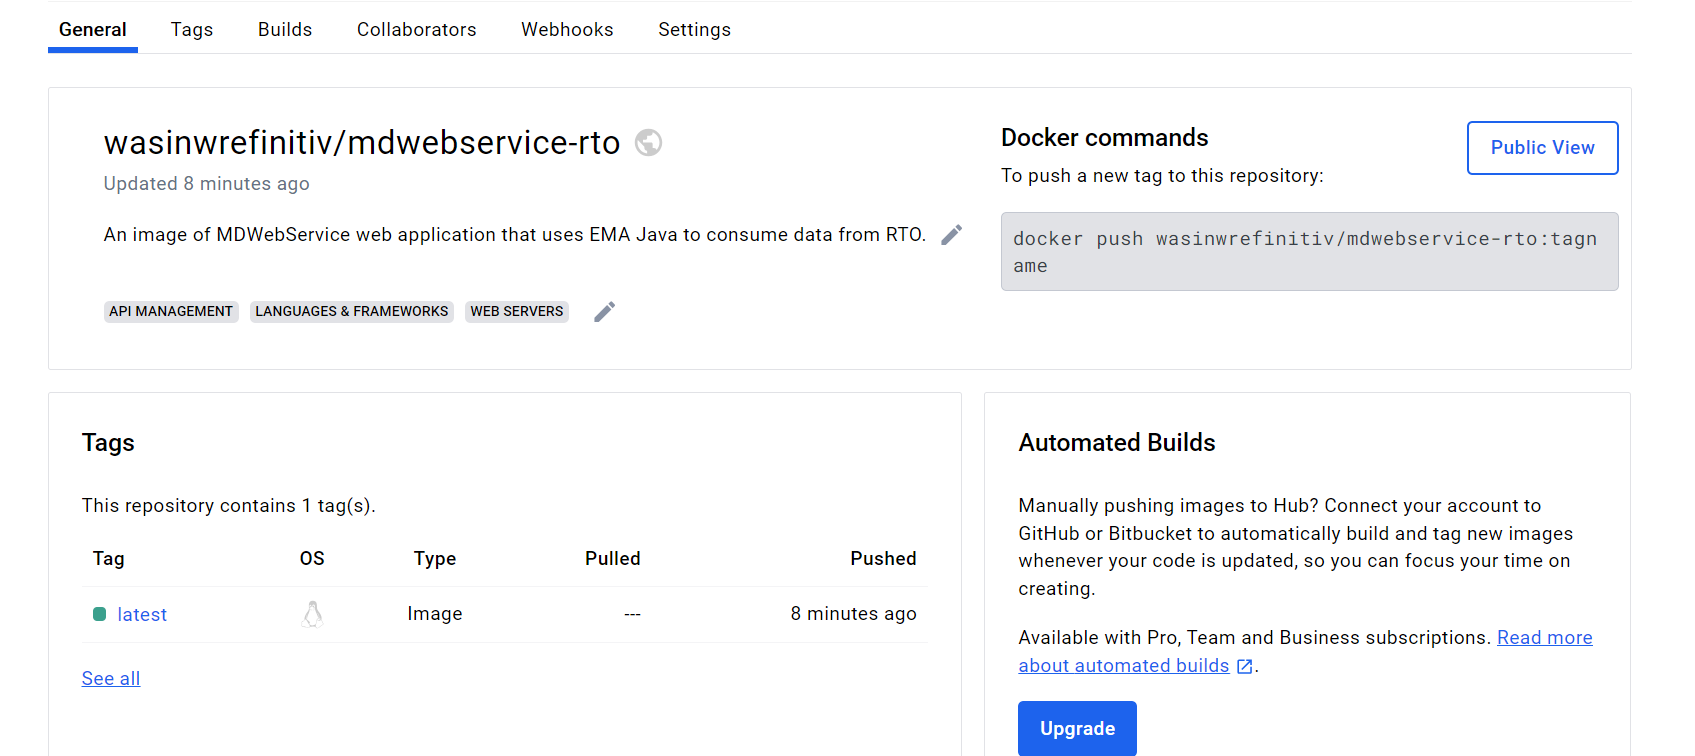
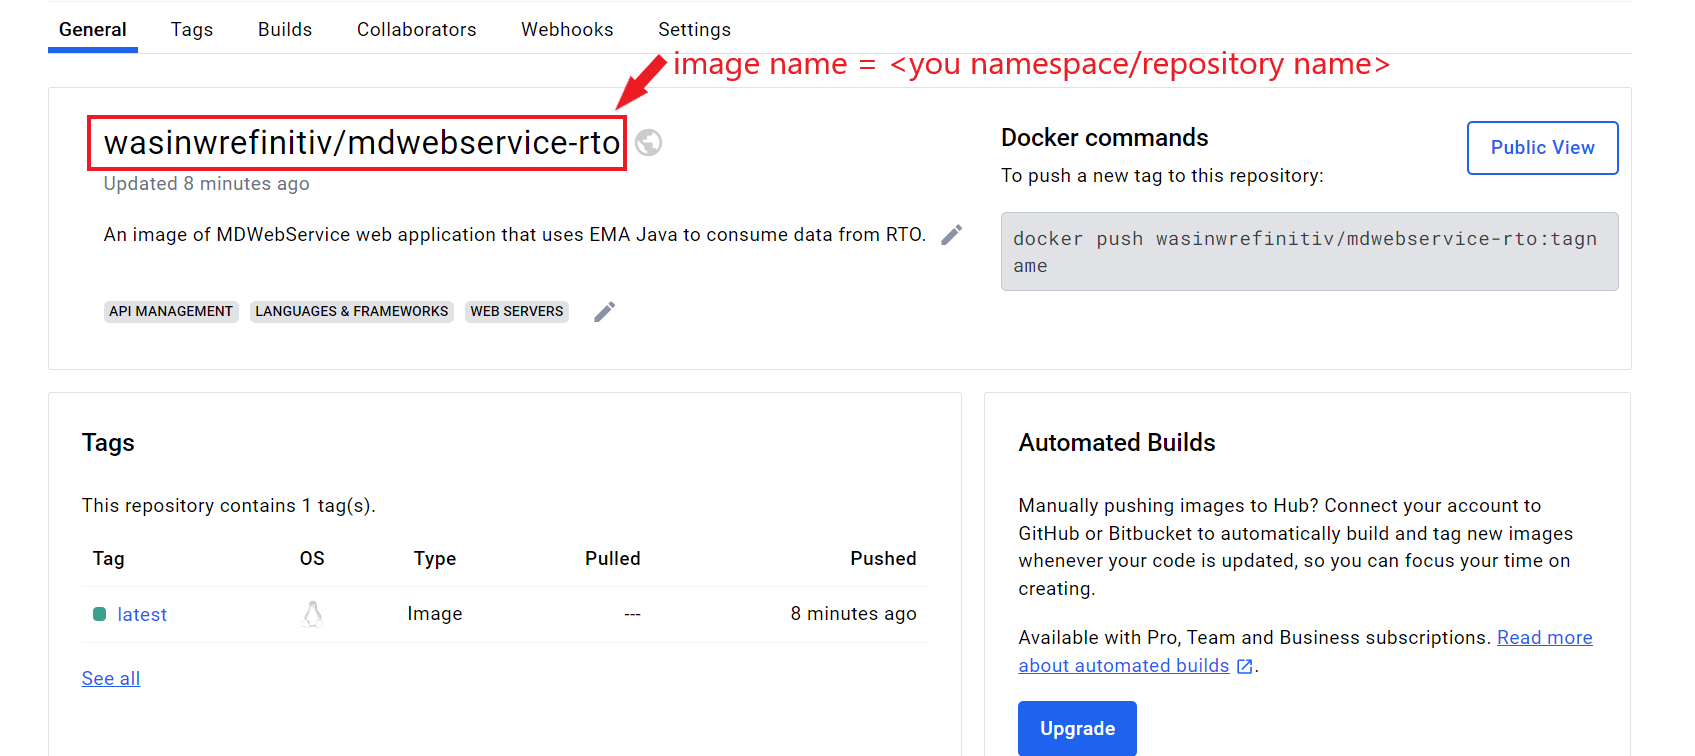
Add push to docker Add push to Azure Container Instance.

Changed region(s): [[0.3681, 0.0608, 0.8283, 0.1521], [0.0307, 0.1521, 0.3681, 0.1825], [0.0614, 0.213, 0.3681, 0.2434]]

diff --git a/README.md b/README.md
@@ -11,7 +11,7 @@ ALL EXAMPLE CODE IS PROVIDED ON AN “AS IS” AND “AS AVAILABLE” BASIS FOR 
 
 This repository is forked from my colleague [How to build a scalable web service for stock prices](https://github.com/LSEG-API-Samples/Article.RTSDK.Java.MDWebService) with the following goals:
 
-1. Update my colleague's Spring Boot MDWebService to support the Real-Time Optimized (RTO **ELEKTRON_DD** service only) with the Authentication Version 2 (aka Customer Identity and Access Management - CIAM, or *Service Account*).
+1. Update my colleague's Spring Boot MDWebService to support the Real-Time Optimized (RTO, not a **Wealth solution products**) with the Authentication Version 2 (aka Customer Identity and Access Management - CIAM, or *Service Account*).
 2. Use the RTO version MDWebService as a base application for deploying to [Azure Container Instances](https://azure.microsoft.com/en-us/products/container-instances).
 
 For more detail about the original project information, please check the following resources:
@@ -161,13 +161,13 @@ The VM way is supported by all major Cloud services like the [Azure Virtual Mach
 
 Since our MDWebService application already have been containerize, this article chooses the fully managed container orchestration service way.
 
-Azure provides various services for supporting different requirements,cost, and your application's preference. You can find more detail about the comparisons of all services that supports containerized applications on Azure on [Comparing Container Apps with other Azure container options](https://learn.microsoft.com/en-us/azure/container-apps/compare-options) and [Difference between Azure Container Instances and Azure Container Apps - serverfault](https://serverfault.com/questions/1083358/difference-between-azure-container-instances-and-azure-container-apps) websites. I am choosing the [Azure Container Instances service](https://azure.microsoft.com/en-us/products/container-instances) because the MDWebService application just need only a single isolate container to run and no need to scale it up yet. <--- May be change in the future.
+Azure provides various services for supporting different requirements,cost, and your application's preference. You can find more detail about the comparisons of all services that supports containerized applications on Azure on [Comparing Container Apps with other Azure container options](https://learn.microsoft.com/en-us/azure/container-apps/compare-options) and [Difference between Azure Container Instances and Azure Container Apps - serverfault](https://serverfault.com/questions/1083358/difference-between-azure-container-instances-and-azure-container-apps) websites. I am choosing the [Azure Container Instances service](https://azure.microsoft.com/en-us/products/container-instances) which is the easiest one.
 
 ### Container Registry
 
-Azure also has the [Container Registry Service](https://azure.microsoft.com/en-us/products/container-registry) repository for storing and managing container images and artifacts with a fully managed environment. This repository requires the [Azure CLI](https://learn.microsoft.com/en-us/cli/azure/) tool to push/pull an application image to Azure container registry. However, our beloved ZScaler somehow blocks this Azure CLI tool to login to Azure, so I need to find other ways.
+Azure also has the [Container Registry Service](https://azure.microsoft.com/en-us/products/container-registry) repository for storing and managing container images and artifacts with a fully managed environment within Azure. This repository requires the [Azure CLI](https://learn.microsoft.com/en-us/cli/azure/) tool to push/pull an application image to Azure container registry. 
 
-Fortunately, the service supports [Docker Hub registry](https://hub.docker.com/) repository, so you can push the MDWebService-RTO image to Docker Hub repository, and set Azure to pull image from Docker Hub and run containers on Azure.
+However, the service also supports [Docker Hub registry](https://hub.docker.com/) repository, so I am choosing this way because I can set other Cloud Container solutions to pull image from Docker Hub as well.
 
 ### Push Image to Docker Hub
 
@@ -213,15 +213,113 @@ docker push wasinwrefinitiv/mdwebservice-rto
 
 ![figure-12](pics/docker_push_4.png)
 
-Then go back to Docker Hub website, the repository page shows your image detail. You can add the repository's category and overview based on your preference.
+Then go back to Docker Hub website, the repository page shows your image detail. You can add the repository's category and overview based on your preference. 
+
+Please note that your image name is **&lt;your namespace&gt;/&lt;repository name&gt;** (*wasinwrefinitiv/mdwebservice-rto* in my case).
 
 ![figure-13](pics/docker_push_5.png)
 
 You can find more detail about how to push an application image to Docker Hub on [Share the application](https://docs.docker.com/get-started/04_sharing_app/) document.
 
+### Creating Azure Container Instances
+
+Firstly, open a web browser to [Azure portal](https://azure.microsoft.com) website, then type *Container Instances* in a search bar. The Container Instance Service menu will be appeared, choose that menu.
+
+![alt text](pics/azure_1.png)
+
+The page redirects to the Container Instances resource management page. To create a container, you can click either the *+Create* button or *Create container instances* button.
+
+![alt text](pics/azure_2.png)
+
+You are now in the Container instances creation page. The first step is choosing your Azure subscription and create a new Resource group. I choose the *mdwebserivce-rto* name for the new Resource Group.
+
+![alt text](pics/azure_3.png)
+
+Next, input a container name. I choose *mdwebservice-rto* as my container name. Select your prefer region and numbers of [Availability zone](https://learn.microsoft.com/en-us/azure/reliability/reliability-containers).
+
+![alt text](pics/azure_4.png)
+
+Now we need to input the image detail as follows, and then click the *Next: Networking* button.
+
+- Image source: For [Docker Hub registry](https://hub.docker.com/), choose *Other registry*
+- Image type: Public
+- Image: Input your image name (**&lt;your namespace&gt;/&lt;repository name&gt;**)
+- Leave other options as is.
+
+![alt text](pics/azure_5.png)
+
+That brings us to the network creation page. Set the DNS named label to *mdwebservice-rto* and add the following ports with type **TCP** to our instance:
+
+- 8080 (for our Web Server)
+- 443 (for connecting to RDP API)
+- 14002 (for the RSSL connection)
+
+![alt text](pics/azure_6.png)
+
+And click the *Next: Advanced* button.
+
+Moving on to advanced page. We can set a container's Environment Variables here. Please choose *Mark as secure* as *Yes* and input the following keys and values
+
+- CLIENT_ID: Your Authentication V2 Client ID
+- ClIENT_SECRET: Your Authentication V2 Client Secret
+
+And click the *Next: Tags* button.
+
+![alt text](pics/azure_7.png)
+
+Next, choose your prefer tag names and values, then click the *Next: Review + create* button.
+
+Now we come to the final step. You can review your setting here and go back for changing any properties you need. If set up looks fine, click the *Create* button.
+
+![alt text](pics/azure_9.png)
+
+Then the Azure Container Instances service deploys your image.
+
+![alt text](pics/azure_10.png)
+
+Once deployment is completed. You can click the *Go to resource* button to check your newly deployed container.
+
+![alt text](pics/azure_11a.png)
+
+That brings us to the mdwebservice-rto instance resource page. The overview page contains the statistic of resource usages, container status, and the Public IP Address and container's automatically assigned DNS name. Please note that you can start, stop, and delete the instance from this resource page too.
+
+![alt text](pics/azure_12.png)
+
+You can click on the Settings --> container tab --> Log to check the application's console log messages.
+
+![alt text](pics/azure_13.png)
+
+To test the deployed web server instant, copy the DNS url from the *FQDN* property (in the red circle), and open it on your web browser as *http://&lt;FQDN name&gt;:port/quotes/RIC_Code* URL.
+
+![alt text](pics/azure_14.png)
+
+Please note that with the autogenerated domain name, *the URL might be blocked by corporate firewall or network policy*. I am testing and capturing the image from my personal machine.
+
+![alt text](pics/azure_15.png)
+
+That’s all I have to say about how to deploy a web service container to Azure.
+
+## Clean Up
+
+My next point is how to clean up the resources if you do not need to run an instance anymore (for cost saving too!).
+
+On the Container Instance Resources page, you can restart, stop, or delete an instance from the menu on this page.
+
+![alt text](pics/azure_16.png)
+
+That covers overall steps of deploying EMA instance on the Azure Container Instance service.
+
+## Next Steps
+
+Add SSL.
+
+[tbd]
+
 ## Reference
 
 - [Comparing Container Apps with other Azure container options](https://learn.microsoft.com/en-us/azure/container-apps/compare-options) article.
 - [Difference between Azure Container Instances and Azure Container Apps - serverfault](https://serverfault.com/questions/1083358/difference-between-azure-container-instances-and-azure-container-apps) post.
+- [Azure Container Instances Service](https://azure.microsoft.com/en-us/products/container-instances)
+- [Azure Container Instances documentation](https://learn.microsoft.com/en-us/azure/container-instances/)
 
 [tbd]
